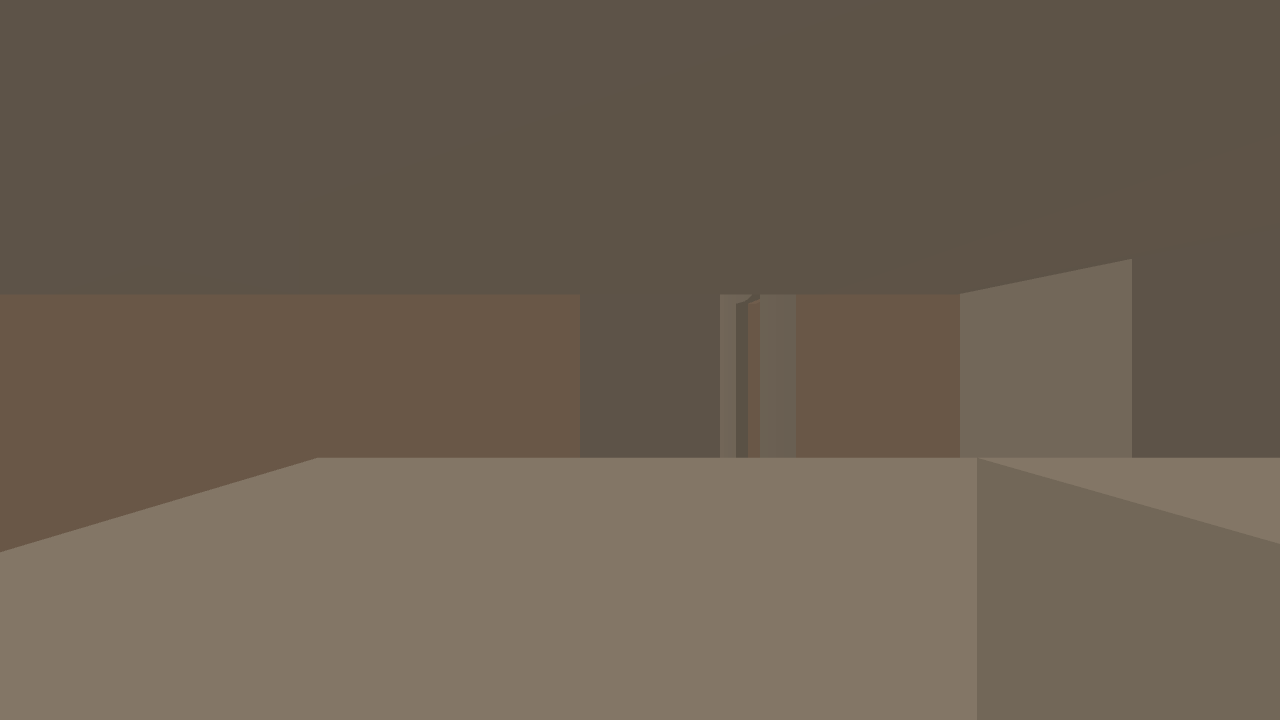
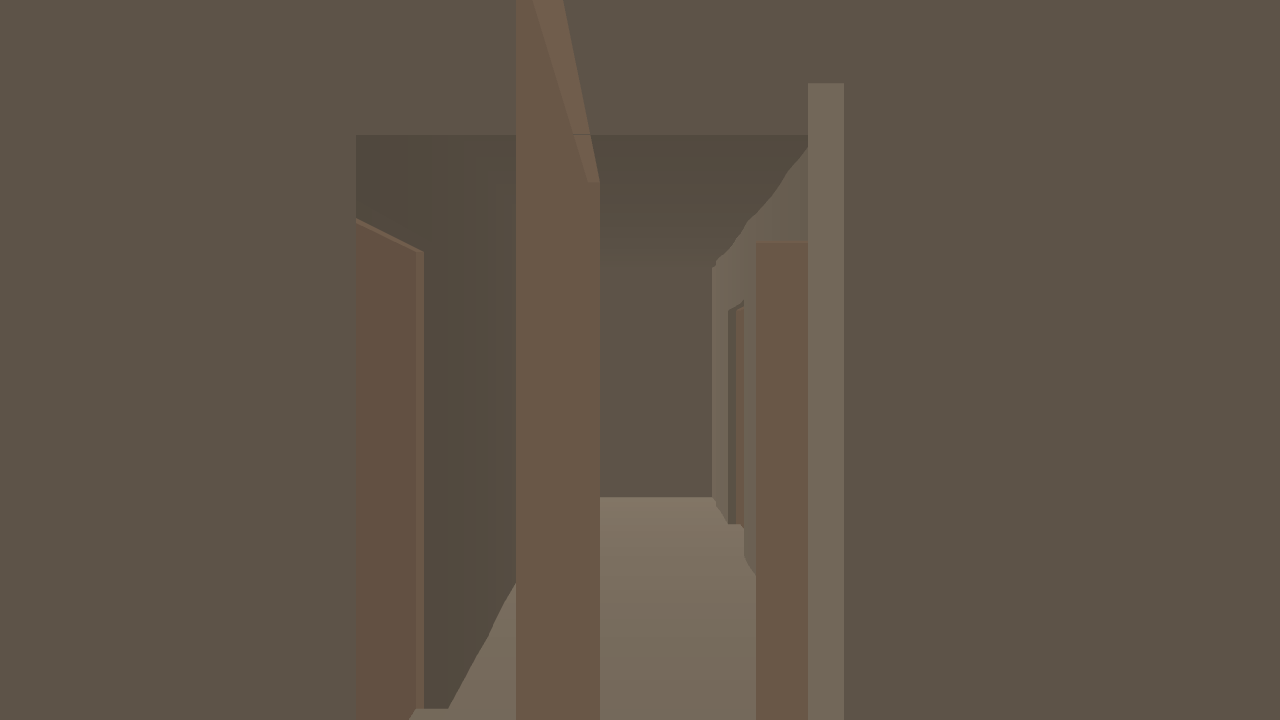
H2b review item 1: the look-lock screenshots now reproduce
Re-derives art-lock's walk so it STOPS and holds still at each of the three
world poses, with each shot near the start of a ~60-tick hold.

Two causes of drift, not one. The shots were taken mid-stride, and the
capture loop is serial: browser.ts polls to a tick then calls
page.screenshot(), which under SwiftShader costs 27-37 ticks of wall clock,
so each capture pushes the next request late. A first attempt with ~10-tick
holds still drifted 54 -> 70, through the hold and into the next leg. A
third instance of the same class hit the terminal shot: focusEase is
per-rendered-frame, so at this gate's ~10fps it settles in ~18 ticks, not
the ~3 it takes on hardware -- capturing 7 ticks after the focus click gave
a half-eased camera and calibContrast 0.

Proof is byte comparison, not argument: two consecutive runs now produce
four byte-identical PNGs, and run A's bedroom capture drifted a tick and
produced the same image anyway, which is what the holds exist to buy.
Before this, only the terminal shot reproduced.

Poses: shot 1 (lobby) picked by photographing all four cardinal directions
from the spawn -- south is the only one that reads, because it looks
through the corridor doorway and so carries layered depth. Shot 3's old
pose stood at x3986, outside room 3's east wall (x375..3875), so the wall
occluded the mess entirely; it now stands inside the room at 1292mm.

Shots 2 and 3 still do not read as a corridor and a bedroom, and that is
[…]

Changed region(s): [[0.0, 0.6111, 1.0, 1.0]]

diff --git a/docs/reviews/phase-H2b.md b/docs/reviews/phase-H2b.md
@@ -256,3 +256,109 @@ The implementer's own read is carried forward verbatim so the sign-off is not as
 ---
 
 **Phase H2b is NOT yet clear to merge.** One blocking item stands, and it is the artifact the next required step consumes. Everything else on this branch is verified, non-vacuous, and merge-ready: fix item 1, obtain the sign-off, record `LOOK-LOCKED`, and merge.
+
+---
+
+## Post-verdict addendum — blocking item 1 worked, and what it did and did not fix
+
+Written after the verdict above, by the same session acting as implementer at
+Chris's instruction ("fix the screenshots"). The verdict is untouched; this
+records what changed and, more importantly, what the work established that the
+verdict could only suspect.
+
+### The reproducibility half: FIXED, and proven the only way that counts
+
+`scenarios/art-lock.scenario.mjs` was re-derived so the walk **stops and holds
+still** at each of the three world poses, with each shot near the start of a
+~60-tick hold. Two causes of drift were found, not one:
+
+1. **Shots were taken mid-stride.** Obvious in hindsight; the walk held `KeyW`
+   almost continuously from tick 0 to 60 and all three world shots landed
+   inside that.
+2. **Capturing is itself slow, and the capture loop is serial.**
+   `browser.ts:396` polls to a tick then calls `page.screenshot()` in order, and
+   under SwiftShader one capture costs **27–37 ticks of wall clock** — so each
+   capture pushes the *next* request late. A first attempt using ~10-tick holds
+   still drifted 54 → 70, straight through the hold into the next leg. This is
+   why the holds are long rather than the ticks merely re-spaced.
+
+A third instance of the same class showed up in the terminal shot: `focusEase`
+is per-**rendered frame** (`FOCUS_EASE_STEP = 0.12`), so on hardware it settles
+in ~0.15 s but at this gate's ~10 fps it takes ~18 ticks. Capturing 7 ticks
+after the focus click produced a half-eased camera and `calibContrast` **0** —
+a red gate caused entirely by capture timing, with the sim assertions all green.
+`SHOT_TERMINAL` now sits ~47 ticks after the click.
+
+**Proof, which is byte comparison rather than an argument:** two consecutive
+Chromium runs produced **four byte-identical PNGs** —
+
+| shot | md5 | run A tick | run B tick |
+|---|---|---|---|
+| `tick-10` lobby | `99e6478a…` | 10 | 10 |
+| `tick-85` corridor | `e2c522df…` | 85 | 85 |
+| `tick-165` bedroom | `6a593b80…` | **166** | 165 |
+| `tick-345` terminal | `2b1460d6…` | 345 | 345 |
+
+Run A's bedroom capture drifted a tick **and produced the same image anyway**,
+which is precisely the property the holds exist to buy. Before this change only
+the terminal shot reproduced. Gate re-verified: **exit 0 on Chromium and
+Firefox**, `--verify-replay`, command count constant at **72** on both engines
+(was 70; the input script changed), `screen-readability` unchanged at
+texelScale **1.38** / calibContrast **241.32** / calibPitchErr **0**,
+`draw-calls` 3, `frame-time-p95` 74.0 / 84.7 ms Chromium and **16.0 ms**
+Firefox. `npm run build`, `npx eslint .`, `check-purity`, and
+`npm run check:goldens` (**12/12**) all still green — no sim code was touched.
+
+### The subject half: two of four fixed; the other two are art, and that is now established rather than suspected
+
+- **Shot 1 (lobby)** — fixed. Chosen by measurement, not taste: a scouting run
+  photographed all four cardinal directions from the spawn. South is the only
+  one that reads, because it looks *through* the corridor doorway and the frame
+  therefore carries a door frame, a receding floor and a ceiling edge. East is a
+  bare corner, north a flat door panel, and west — down the lobby's 10 m length,
+  which is what "lobby wide" naively suggests — is a near-featureless field.
+- **Shot 4 (terminal)** — unchanged and still perfect.
+- **Shot 3 (bedroom)** — the mess is now genuinely in frame, and the earlier
+  1831 mm pose was diagnosed: it stands at x3986, **outside room 3's east wall**
+  (the room spans x375..3875), so the wall occluded the mess entirely. The pose
+  is now inside the room at 1292 mm.
+- **Shots 2 and 3 still do not read** as a corridor and a bedroom.
+
+**This is not a pose problem, and the search that establishes it is the useful
+output.** Roughly a dozen framings were photographed and inspected. With no
+surface detail at gameplay distance, a frame reads only when it contains an
+opening and layered depth; flat-on views of large surfaces render as untextured
+fields whatever the room is, and oblique multi-surface views render as polygon
+soup. The legible band is narrow: **moving 600 mm forward from shot 1's pose
+destroys it.** And the mess in shot 3 renders as a dark brown box
+indistinguishable from architecture — confirmed by pitch-tracking the same dark
+slab across pitches 210/175/140 and watching it leave frame as predicted.
+
+The fixes are art-side: atlas contrast, surface/edge definition, and the mess's
+own colour (`hashedColor(kind, 0.4, 0.3)` lands dark against a dark floor).
+Those belong to the sign-off and to non-blocking item 7's missing
+`surface-contrast` probe, not to another pose iteration.
+
+### Verdict status
+
+**Blocking item 1 is discharged as far as engineering can take it**, and the
+part that remains is now correctly located: it is the *look*, which is Chris's
+call at the §11 sign-off, not a defect in the gate. The four committed
+screenshots are an honest, reproducible record of what the build currently looks
+like — which is what a sign-off needs, whether the answer is "lock it" or "the
+art needs another pass first".
+
+`LOOK-LOCKED:` remains deliberately unrecorded.
+
+### One correction, recorded because this project's rules require it
+
+While investigating, this session ran the app's dev server through
+`preview_start` and found the page world contained **no messes**, and briefly
+treated that as a product bug. It was not. `preview_start` launches in the
+*session's* worktree, which sits at `28e554a` (pre-H2b, no `setupNamed`, no
+`SCENARIO_CONFIGS`) — the wrong tree, the same trap family as the fresh-worktree
+resolution failure that opened H2b. Re-checked against a dev server started in
+the review worktree, the page has both messes, the broken lamp and two open
+doors, exactly as designed. **Nothing was wrong with `preDirty`.** Worth adding
+to HANDOFF's traps: *`preview_start` ignores which worktree you are reviewing;
+verify the served tree before believing anything it shows you.*

diff --git a/apps/hotel/docs/HANDOFF.md b/apps/hotel/docs/HANDOFF.md
@@ -23,7 +23,7 @@ that no longer clips walls, and it reloads your hotel on boot.
 
 ### H2b's measured exit criteria
 
-- `art-lock` — exit 0 **both engines**, `--verify-replay`, **70 commands**
+- `art-lock` — exit 0 **both engines**, `--verify-replay`, **72 commands**
   each. `screen-readability` reads texelScale **1.38** / calibContrast
   **241.32** / calibPitchErr **0** with the shader live on everything else:
   byte-for-byte H1b's numbers, which is the B6 exemption proven under the
@@ -44,11 +44,28 @@ that no longer clips walls, and it reloads your hotel on boot.
 1. **The human look-lock sign-off.** Four screenshots are committed at
    `apps/hotel/docs/evidence/h2b-look-*.png`. §11 requires Chris to view
    them AND drive the build himself, after which the review records
-   `LOOK-LOCKED: <commit>`. No agent can do this step. The implementer's own
-   read, recorded so the sign-off is not asked to guess: the look is
-   *adequate and coherent* — three distinct value planes, legible rooms —
-   but not yet *charming*; the atlas dither does not resolve at gameplay
-   distance and the palette is narrow.
+   `LOOK-LOCKED: <commit>`. No agent can do this step.
+
+   These four were RE-CAPTURED after the H2b review's blocking item 1 (see
+   `docs/reviews/phase-H2b.md`). They are now **reproducible**: every shot
+   sits inside a long stationary hold, and two consecutive runs produced
+   four byte-identical PNGs even though one shot's capture drifted a tick.
+   Before the fix only the terminal shot reproduced.
+
+   **What is still true, and is the sign-off's actual subject:** only two of
+   the four frames read as architecture — shot 1 (the lobby looking through
+   the corridor doorway) and shot 4 (the terminal). Shots 2 and 3 are
+   legible as geometry but not as a corridor or a bedroom. That was chased
+   to ground and is NOT a pose problem: with no surface detail at gameplay
+   distance, a frame only reads when it contains an opening and layered
+   depth, and the legible band around such a pose is a few hundred
+   millimetres wide (measured: moving 600mm from shot 1's pose destroys it).
+   The mess in shot 3 IS in frame — confirmed by pitch-tracking it across
+   three pitches — but renders as a dark brown box indistinguishable from
+   the architecture around it. The fixes are art-side (atlas contrast,
+   surface/edge definition, mess colour), which is exactly what the
+   look-lock sign-off is for and what the ungated `surface-contrast` probe
+   (PHASE-H2C §3.3) would measure.
 2. **The H2b review gate.** No verdict exists at `docs/reviews/phase-H2b.md`.
 3. **Two deviations the review must rule on, not inherit:**
    - The frame-time budget is **scoped to software rendering** (ceiling 170
